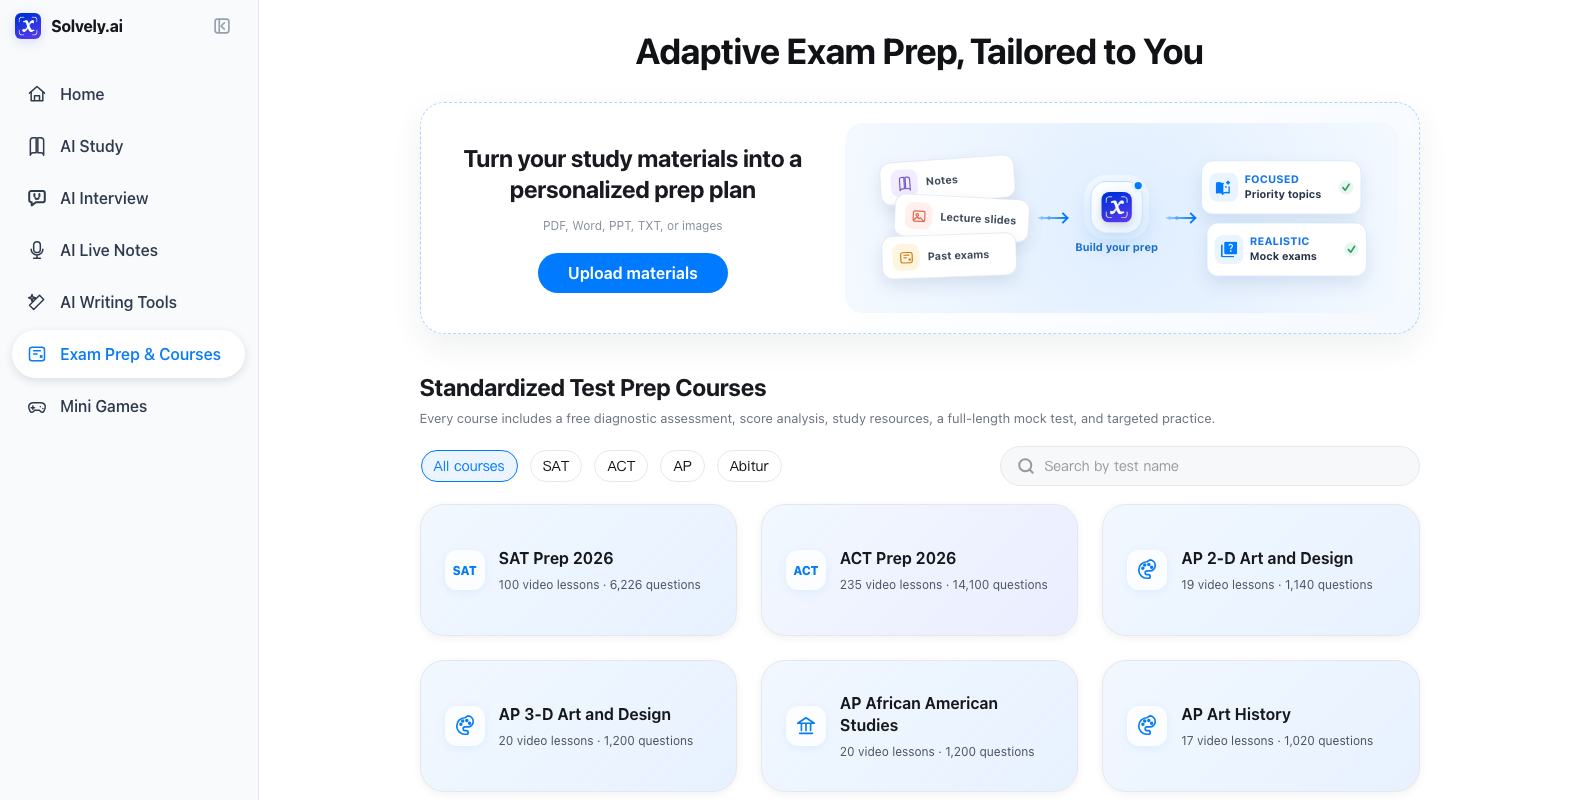
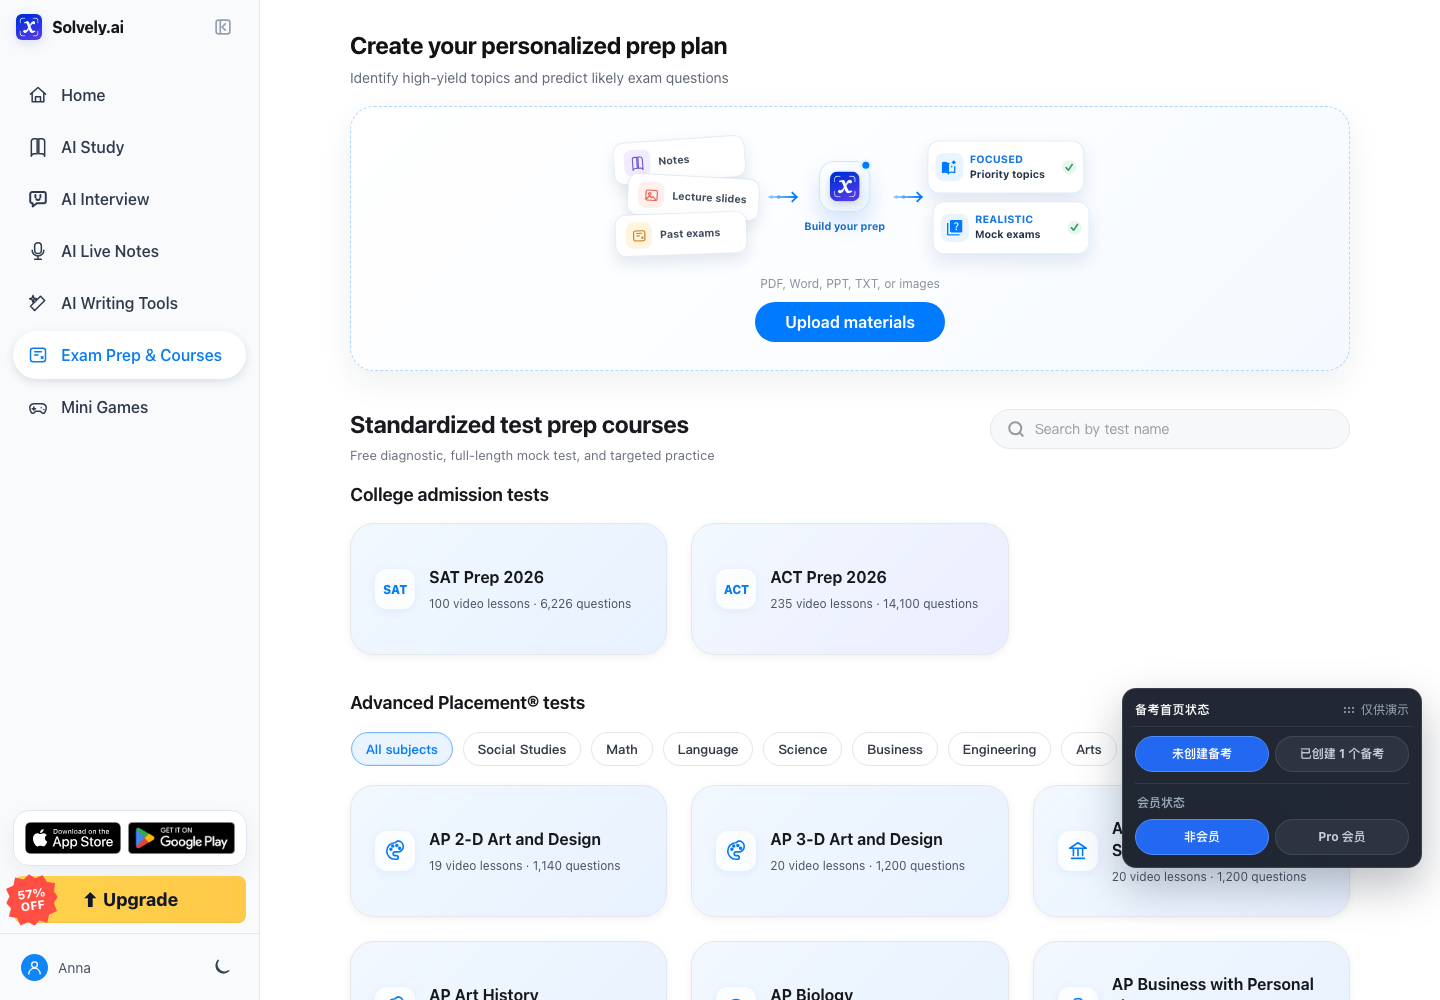
Sync PRD with homepage v40

diff --git a/docs/prd/exam-prep-courses/PRD-Exam-Prep-Courses.md b/docs/prd/exam-prep-courses/PRD-Exam-Prep-Courses.md
@@ -1,9 +1,9 @@
 # Exam Prep & Courses 完整产品需求文档（PRD）
 
-> 文档版本：v1.13
-> 基准日期：2026-09-14
+> 文档版本：v1.14
+> 基准日期：2026-09-15
 > 产品范围：Exam Prep 首页、Standardized test prep courses、课程学习工具、SAT/ACT/AP/Abitur 模考、成绩报告与商业化门槛
-> Demo 基准：`ChatGPT Site · 2026-09-10 published build`
+> Demo 基准：`ChatGPT Site · v40 · 2026-09-15 published build`
 > 文档状态：评审稿
 
 ## 1. 关键问题同步与变更记录
@@ -216,12 +216,12 @@ Exam Prep & Courses
 
 | 项目 | 说明 | 图示 |
 |---|---|---|
-| 页面头部 | 当用户没有成功创建过 Custom Plan，且没有开始过任何 Prep Course 学习资源或考试时，不展示全页营销主标题。内容区首个标题左对齐展示 **Create adaptive prep plan**，副标题为 `Turn your study materials into a personalized prep plan including must know topics and realistic mock exams.`；标题与下方 Standardized test prep courses 使用一致的模块层级。 | ![VIS-01 首次进入](./images/VIS-01-home-first-entry-custom-plan.png) |
+| 页面头部 | 当用户没有成功创建过 Custom Plan，且没有开始过任何 Prep Course 学习资源或考试时，不展示全页营销主标题。内容区首个标题左对齐展示 **Create your personalized prep plan**，副标题为 `Identify high-yield topics and predict likely exam questions`；标题与下方 Standardized test prep courses 使用一致的模块层级。 | ![VIS-01 首次进入](./images/VIS-01-home-first-entry-custom-plan.png) |
 | 页面结构 | Custom Plan 上传区与 Standardized test prep courses 同屏纵向展示，不再使用顶部 `Custom Plan / Prep Courses` 切换 Tab，也不展示 `SAT, ACT and AP Prep` 气泡。滚动页面即可浏览课程。 | ![VIS-02 首次进入课程区](./images/VIS-02-home-first-entry-prep-courses.png) |
 | Custom Plan 上传 | 整个虚线区域都可点击、键盘触发或拖拽上传；上传框内不重复标题或副标题，以居中的生成流程插图为主体。格式提示 `PDF, Word, PPT, TXT, or images` 与 CTA `Upload materials` 位于流程图下方居中，且与插图同处一个连续上传面，不再使用独立浅蓝插图底框。不在入口外露页数限制；文件校验时仍按每个文件最多处理 50 页。 | ![VIS-01 上传入口](./images/VIS-01-home-first-entry-custom-plan.png) |
 | 上传交互与反馈 | Hover 整个虚线框时，边框与背景呈品牌蓝高亮，鼠标显示可点击；键盘聚焦显示焦点环，Enter/Space 与点击 Upload materials 执行同一上传动作，每次只打开一次文件选择器。拖入文件进入同一校验流程；取消选择不创建计划或进度。选择文件后先进入“已上传文件”中间状态，不直接打开创建弹窗。 | 见 VIS-01 |
 | 已上传文件状态 | 虚线入口替换为同宽文件面板。顶部显示 `Files uploaded: {fileCount}/10`；每个文件卡显示文件图标、完整文件名、格式化大小和 Remove；`Add more files` 继续使用同一选择器并最多累计 10 个；右下角 `Continue` 仅在至少 1 个有效文件时可用。Remove 最后一个文件后恢复空上传入口。文件状态本身不创建计划或进度。 | ![VIS-97 已上传文件](./images/VIS-97-uploaded-materials.png) |
-| 插图与空间层级 | 桌面端同一虚线框内居中展示代码绘制流程图：Notes、Lecture slides、Past exams → Solvely Logo / Build your prep → FOCUSED / Priority topics、REALISTIC / Mock exams；格式提示与 CTA 紧随其下。插图不表示已生成真实结果，不提供独立操作，也不再使用内嵌卡片底色。上传区约 238px 高，与课程区约 38px 间距；`Create adaptive prep plan` 与课程区标题均约 24px。窄屏自适应缩放并纵向保留操作区，文字完整换行，不裁切或省略；最小文字 12px。 | 见 VIS-01 |
+| 插图与空间层级 | 桌面端同一虚线框内居中展示代码绘制流程图：Notes、Lecture slides、Past exams → Solvely Logo / Build your prep → FOCUSED / Priority topics、REALISTIC / Mock exams；格式提示与 CTA 紧随其下。插图不表示已生成真实结果，不提供独立操作，也不再使用内嵌卡片底色。上传区约 238px 高，与课程区约 38px 间距；`Create your personalized prep plan` 与课程区标题均约 24px。窄屏自适应缩放并纵向保留操作区，文字完整换行，不裁切或省略；最小文字 12px。 | 见 VIS-01 |
 | 示例计划 | 不展示原 3 张 Sample 卡；上传区结束后直接展示 Standardized test prep courses。 | ![VIS-02 课程区](./images/VIS-02-home-first-entry-prep-courses.png) |
 | 创建计划弹窗 | 用户在已上传文件状态点击 `Continue` 后打开。标题 `Sharpen your prediction`；必填 `School Name`（Placeholder：`e.g. University of Georgia`）、必填 `Course Code & Name`（Placeholder：`e.g. BIOL 101 - Principles of Biology`）、必填 `Exam Type`（Midterm Exam / Final Exam / Quiz / Others，单选，默认 Midterm Exam）、可选 `Exam Date`。主 CTA 为 `Create Prep Plan`；X/Escape 关闭并保留本次已上传文件，未提交不生成计划或首页进度。已有计划的 Edit 入口继续使用 Edit prep plan / Save changes。 | ![VIS-03 创建计划](./images/VIS-03-create-prep-plan-dialog.png) |
 
@@ -238,13 +238,13 @@ Exam Prep & Courses
 
 | 项目 | 说明 | 图示 |
 |---|---|---|
-| 标题与搜索 | 标题：`Standardized test prep courses`；说明：`Every course includes a free diagnostic assessment, score analysis, study resources, a full-length mock test, and targeted practice.`；不展示 Total。搜索 Placeholder：`Search by test name`。 | ![VIS-02 课程库](./images/VIS-02-home-first-entry-prep-courses.png) |
-| 分类筛选 | All courses、SAT、ACT、AP、Abitur，以横向胶囊按钮展示，默认 All courses。桌面端分类在左、搜索框在右；窄屏自适应排列。点击分类只过滤当前页课程，保留搜索词；搜索和分类组合生效，结果按课程配置顺序展示，不切换页面或创建进度。 | ![VIS-02 搜索与筛选](./images/VIS-02-home-first-entry-prep-courses.png) |
+| 标题与搜索 | 标题：`Standardized test prep courses`；说明：`Free diagnostic, full-length mock test, and targeted practice`；不展示 Total。桌面端标题/副标题位于左侧，搜索框与标题区同一行并靠右，Placeholder 为 `Search by test name`；窄屏时搜索框换到下一行并占满内容宽度。 | ![VIS-02 课程库](./images/VIS-02-home-first-entry-prep-courses.png) |
+| 搜索与 AP 学科筛选 | 不提供 All courses / SAT / ACT / AP / Abitur 考试家族总筛选。搜索按课程名称实时匹配并作用于全部分区；AP 分区单独提供 All subjects、Social Studies、Math、Language、Science、Business、Engineering、Arts，搜索与 AP 学科筛选按 AND 生效，不切换页面或创建进度。 | ![VIS-02 搜索与筛选](./images/VIS-02-home-first-entry-prep-courses.png) |
 | 课程分组 | 筛选与搜索之后，非空结果按 `College admission tests`（SAT、ACT）、`Advanced Placement® tests`（全部 AP）、`Abiturprüfungen`（德国 Abitur）分组展示；空分组隐藏。分组标题仅建立信息层级，不改变课程卡片顺序、尺寸、入口权限或进度状态。 | ![VIS-02 课程库](./images/VIS-02-home-first-entry-prep-courses.png) |
 | 卡片网格 | 桌面端一行固定三张；卡片尺寸和间距与首页 Demo 一致。只有两张结果时，仍保持三列中单卡宽度，不拉伸。 | ![VIS-04 三列课程](./images/VIS-04-home-active-exam-library.png) |
 | 卡片信息 | 卡片整体为一个视觉区块，只展示课程名与一行副标题 `{videoLessonCount} video lessons · {practiceQuestionCount} questions`；所有数量以课程当前发布配置为准。卡片不展示 CTA、Total、`score insights` 或上下分区。 | ![VIS-02 课程卡片](./images/VIS-02-home-first-entry-prep-courses.png) |
 | 卡片入口与权限 | `course_ready=true` 的课程卡可点击，Free 与 Pro 进入相同课程页，入口不得出现 Pro 标识或 Paywall；当前 Demo 为 SAT、ACT、AP Calculus BC、Abitur Mathematik。没有内容数据的卡片 disabled、使用 `Course unavailable: {course}` 无障碍名称且不跳独立占位页。只打开可用课程不创建进度；进入后仅在触发 M-03/M-05/M-06/M-07 的受限动作时校验会员。 | ![VIS-72 课程入口](./images/VIS-72-course-search-and-coming-soon.png) |
-| 空结果 | 搜索无匹配课程时展示明确 Empty State、保留搜索框和分类筛选，并提供 Clear search。 | ![VIS-73 搜索无结果](./images/VIS-73-course-search-empty.png) |
+| 空结果 | 全局搜索无匹配课程时展示 `No matching courses. Try another exam name.`；AP 学科在当前搜索条件下无结果时展示 `No AP courses match this subject.`。保留搜索框和 AP 学科筛选，不展示旧版 Clear search CTA。 | ![VIS-73 搜索无结果](./images/VIS-73-course-search-empty.png) |
 
 ### 4.5 统一课程页面与学习内容
 
@@ -734,7 +734,7 @@ type Question = {
 | 德国高考 | 7 | 177 | 5,310 | 6,514 | 11,824 | 7 份逐学科 mock CSV；7 份 Study Guide/Flashcard CSV；1 份 Quiz master；1 份视频 manifest |
 | 合计 | 52 | 1,704 | 51,120 | 52,550 | 103,670 | 课程总数仅用于内部完整性校验，首页仍不展示“52 Total” |
 
-> AP 的 43 条课程记录包含 **AP Networking (Pilot)**。当前物料盘点只有 42 份逐课程 mock CSV，Networking Pilot 缺独立 Full-Length；这与首页“Every course includes … a full-length mock test”承诺冲突。生产全量发布前必须补齐并通过 QA，否则 AP Networking (Pilot) 不得进入可见生产目录，同时课程总数及文案需按实际发布数更新。`course_ready`、`diagnostic_ready` 与 `full_length_ready` 仍必须分别配置，不得伪造 Ready。
+> AP 的 43 条课程记录包含 **AP Networking (Pilot)**。当前物料盘点只有 42 份逐课程 mock CSV，Networking Pilot 缺独立 Full-Length。首页课程副标题包含 Full-length mock test，因此生产全量发布前必须补齐并通过 QA；否则 AP Networking (Pilot) 不得进入可点击的生产目录。`course_ready`、`diagnostic_ready` 与 `full_length_ready` 仍必须分别配置，不得伪造 Ready。
 
 | 复用等级 | 内容 | Web 要求 |
 |---|---|---|
@@ -760,7 +760,7 @@ type Question = {
 
 | 场景 | 需求 |
 |---|---|
-| 首页课程加载失败 | 保留标题、上传入口、分类筛选和搜索，展示 Retry；不把错误当成 0 门课程。 |
+| 首页课程加载失败 | 保留标题、上传入口、搜索框和 AP 学科筛选，展示 Retry；不把错误当成 0 门课程。 |
 | 上传失败 | 显示文件名、失败原因、Retry/Remove；其他已成功文件不丢失。 |
 | 不支持的文件 | 在上传前拦截并说明支持格式；超过 50 页说明只处理前 50 页。 |
 | Course/Topic 不存在 | 展示 Course unavailable，并提供 Back to courses；不进入空白页。 |
@@ -981,8 +981,8 @@ Course→Writing 的跨产品转化复用 Writing Tools 已有埋点协议；在
 | Key | English | Context |
 |---|---|---|
 | `ep.nav` | Exam Prep & Courses | 侧边栏 |
-| `ep.hero.first_entry.title` | Create adaptive prep plan | 没有 Custom Plan 且没有课程活动时的首个模块标题 |
-| `ep.hero.first_entry.subtitle` | Turn your study materials into a personalized prep plan including must know topics and realistic mock exams. | 首个模块标题下的说明文案 |
+| `ep.hero.first_entry.title` | Create your personalized prep plan | 没有 Custom Plan 且没有课程活动时的首个模块标题 |
+| `ep.hero.first_entry.subtitle` | Identify high-yield topics and predict likely exam questions | 首个模块标题下的说明文案 |
 | `ep.hero.active.title` | Stay on Track for Your Best Score | 已成功创建计划或已开始课程后的首页标题 |
 | `ep.hero.active.subtitle` | Personalized exam prep, all the way to test day. | 已成功创建计划或已开始课程后的首页副标题 |
 | `ep.upload.formats` | PDF, Word, PPT, TXT, or images | 上传格式提示 |
@@ -1007,8 +1007,8 @@ Course→Writing 的跨产品转化复用 Writing Tools 已有埋点协议；在
 | `ep.library.title` | Exam Library | 已有进度首页 |
 | `ep.plan.new` | New Prep Plan | 首页 CTA |
 | `ep.courses.title` | Standardized test prep courses | 课程区标题 |
-| `ep.courses.description` | Every course includes a free diagnostic assessment, score analysis, study resources, a full-length mock test, and targeted practice. | 课程区说明 |
-| `ep.courses.search` | Search by test name | Search placeholder |
+| `ep.courses.description` | Free diagnostic, full-length mock test, and targeted practice | 首次进入与已有进度首页共享的课程区说明 |
+| `ep.courses.search` | Search by test name | 桌面端课程标题行右侧搜索框；窄屏换行全宽 |
 | `ep.course.open` | Open course | 所有课程；仅用于可访问名称，不在卡片上展示 CTA |
 | `ep.course.continue` | Continue learning | 有进度课程 |
 | `ep.course.meta` | {videoLessonCount} video lessons · {practiceQuestionCount} questions | 课程卡唯一副标题 |
@@ -1063,8 +1063,8 @@ Course→Writing 的跨产品转化复用 Writing Tools 已有埋点协议；在
 
 | ID | 前置条件 | 操作 | 预期结果 |
 |---|---|---|---|
-| TC-001 | 新用户，无计划/课程进度 | 进入 Exam Prep & Courses | 首个模块左对齐显示 `Create adaptive prep plan` 及指定副标题；上传区和课程库同屏纵向展示；上传框内不重复标题，插图居中且 CTA 位于其下；无顶部模式 Tab、3 张示例或 Exam Library |
-| TC-002 | 同上 | 页面向下滚动 | 直接看到课程标题、说明、搜索、筛选与三列课程卡；无模式切换步骤 |
+| TC-001 | 新用户，无计划/课程进度 | 进入 Exam Prep & Courses | 首个模块左对齐显示 `Create your personalized prep plan` 与 `Identify high-yield topics and predict likely exam questions`；上传区和课程库同屏纵向展示；上传框内不重复标题，插图居中且 CTA 位于其下；课程标题行右侧展示搜索框；无顶部模式 Tab、3 张示例或 Exam Library |
+| TC-002 | 同上 | 页面向下滚动 | 直接看到 `Standardized test prep courses` 标题与说明、标题行右侧的 `Search by test name`、College admission tests / Advanced Placement® tests / Abiturprüfungen 固定分区和三列课程卡；只有 AP 分区显示学科筛选，无考试家族总筛选或模式切换。窄屏时搜索框换行全宽 |
 | TC-003 | 同上 | 上传不支持格式或超过 50 页的支持文件 | 不支持格式在校验时阻止；支持文件沿用每文件最多处理前 50 页的规则，处理反馈在文件流程中展示；首页上传卡仍只显示格式，不外露页数限制 |
 | TC-004 | 同上 | 创建计划 | 必填校验；只有创建成功后首页才切到 active；标题变为 `Stay on Track for Your Best Score`，副标题变为 `Personalized exam prep, all the way to test day.`；计划出现在 Exam Library |
 | TC-005 | 用户已有课程进度 | 进入首页 | 显示 active 标题与副标题；Exam Library 出现课程进度卡和最近活动；课程目录卡尺寸不变 |
@@ -1104,7 +1104,7 @@ Course→Writing 的跨产品转化复用 Writing Tools 已有埋点协议；在
 | TC-111 | 内容服务加载当前发布 manifest | 读取课程目录 | 返回 52 条内部课程记录（SAT 1、ACT 1、AP 43、Abitur 7）；首页不展示“52 Total” |
 | TC-112 | 同一物料已在 iOS 和 Web 发布 | 对比 `course_id/topic_id/question_id/content_version/checksum` | ID 与版本一致；Web 只重做呈现和交互，不产生重复内容记录 |
 | TC-113 | 附件文件名题量与 manifest 不一致 | 导入 SAT/ACT Quiz CSV | 不从文件名取数；按显式 schema 去重统计并产生差异告警，卡片读取发布 manifest 数字 |
-| TC-114 | AP Networking (Pilot) 的 Full-Length 物料未通过发布校验 | 生成生产 Catalog | 不得把 `full_length_ready` 伪造为 true，不得将该课程放入对用户可见的“Every course includes a full-length mock test”目录；补齐并通过 QA 后才可和其他 AP 课程使用同一课程页上线 |
+| TC-114 | AP Networking (Pilot) 的 Full-Length 物料未通过发布校验 | 生成生产 Catalog | 不得把 `full_length_ready` 伪造为 true，卡片不得变为可点击状态；补齐并通过 QA 后才可和其他 AP 课程使用同一课程页上线 |
 | TC-115 | Study Guide/Flashcards 来自同一合并 CSV | 分别打开两个工具并切换 Topic | 各工具只读自身字段；无重复渲染、无跨 Topic 串用、无缺失内容被错误标记完成 |
 | TC-116 | 视频/封面/音频 URL 过期或 MIME 错误 | 打开对应 Lesson | 对应工具显示 unavailable + Retry；其余课程内容可用；发布监控产生 asset_invalid 告警 |
 | TC-117 | AP questions/answers PDF 未授权发布 | 检查生产 API 与页面资源 | 不返回、不展示附件；只有 `license_status=approved` 且 `publishable=true` 后才可发布 |
